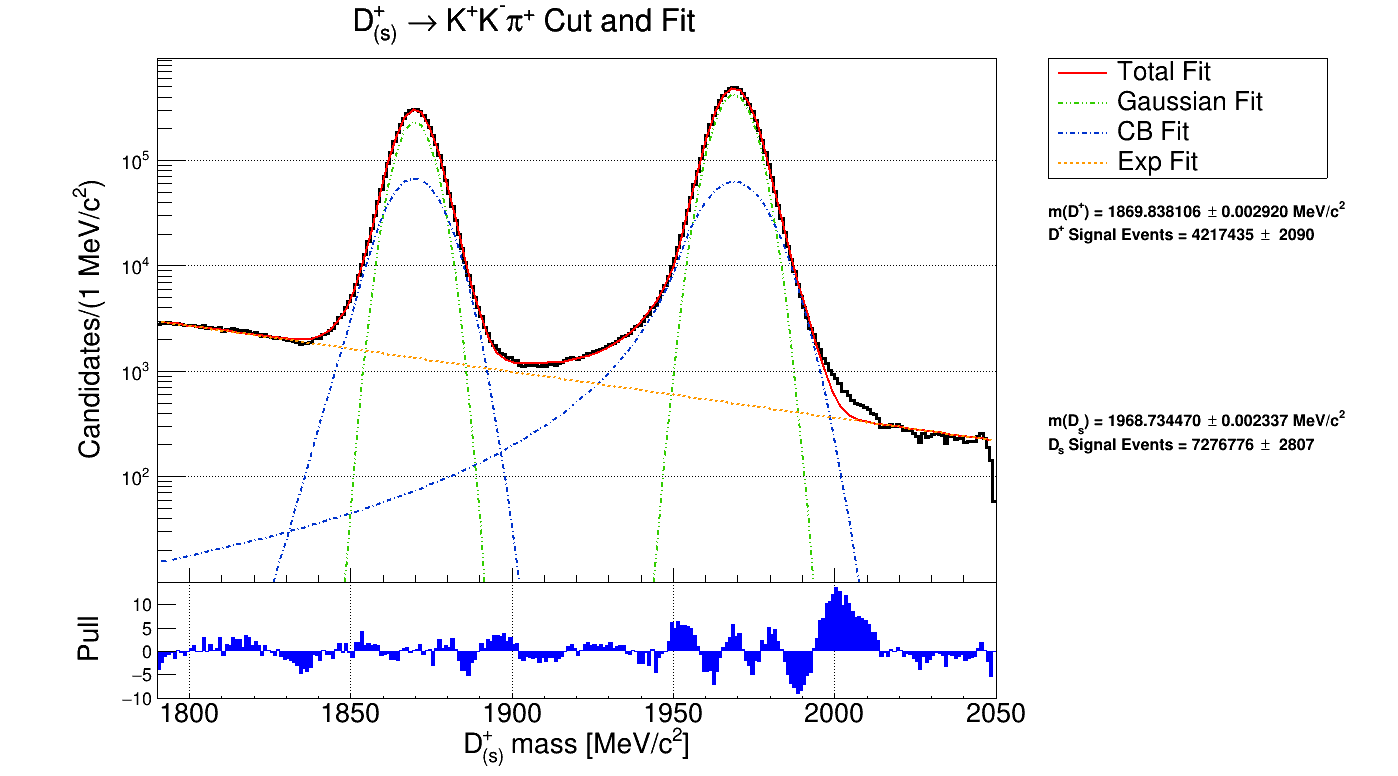
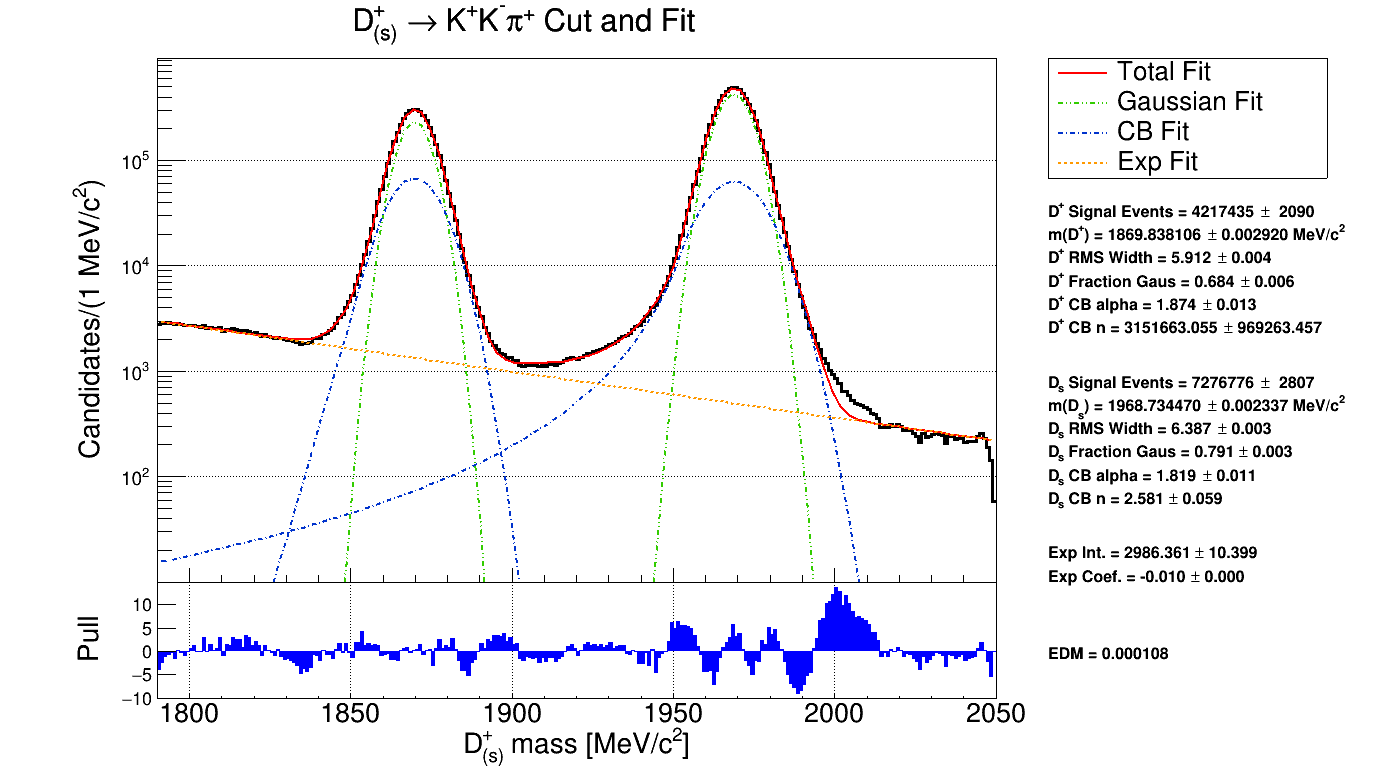
spectrum plot working okay, need to figure out edm collection

diff --git a/combined_cut_fit.C b/combined_cut_fit.C
@@ -232,7 +232,7 @@ cout << "exp coef: " << expCoefGuess << endl;
 	dpdspFit->SetParLimits(4,0.000001,0.99999);
 	dpdspFit->SetParameter(5, 1.5);//crystal ball alpha
 	dpdspFit->SetParameter(6,2.5);//crystal ball n
-	//dpdspFit->SetParLimits(6,1.00001,6.);
+	//dpdspFit->SetParLimits(6,1.00001,10);
 //dsp mass peak
 	dpdspFit->SetParameter(7,nSignal2Guess);//nSignal
 	//dpdspFit->SetParLimits(7,7000000,8000000);
@@ -286,6 +286,8 @@ pad1->cd();
 	pad1->SetGridy();
 
 dpdspHist->Fit("dpdspFit","R");
+//TF1 *fit = dpdspHist->GetFunction("dpdspFit");
+//TFitResultPtr fitResultPointer = dpdspHist->Fit("dpdspFit","R");
 
 	//get the parameters back for isolated signal plotting
 	//signal 2
@@ -412,20 +414,20 @@ backgroundFit->Draw("same");
 			mu1Strpm.Form("%5.6f\n",dpdspFit->GetParError(1));
 		TString rmsWidth1Str;
 			TString rmsWidth1Strpm;
-			rmsWidth1Str.Form("%5.0f\n",rms1);
-			rmsWidth1Strpm.Form("%5.0f\n",dpdspFit->GetParError(2));
+			rmsWidth1Str.Form("%5.3f\n",rms1);
+			rmsWidth1Strpm.Form("%5.3f\n",dpdspFit->GetParError(2));
 		TString gaus_frac1Str;
 			TString gaus_frac1Strpm;
-			gaus_frac1Str.Form("%5.0f\n",f1);
-			gaus_frac1Strpm.Form("%5.0f\n",dpdspFit->GetParError(4));
+			gaus_frac1Str.Form("%5.3f\n",f1);
+			gaus_frac1Strpm.Form("%5.3f\n",dpdspFit->GetParError(4));
 		TString CBalpha1Str;
 			TString CBalpha1Strpm;
-			CBalpha1Str.Form("%5.0f\n",CB_alpha1);
-			CBalpha1Strpm.Form("%5.0f\n",dpdspFit->GetParError(5));
+			CBalpha1Str.Form("%5.3f\n",CB_alpha1);
+			CBalpha1Strpm.Form("%5.3f\n",dpdspFit->GetParError(5));
 		TString CBn1Str;
 			TString CBn1Strpm;
-			CBn1Str.Form("%5.0f\n",CB_n1);
-			CBn1Strpm.Form("%5.0f\n",dpdspFit->GetParError(6));
+			CBn1Str.Form("%5.3f\n",CB_n1);
+			CBn1Strpm.Form("%5.3f\n",dpdspFit->GetParError(6));
 
 		TString nSignal2Str;
 			TString nSignal2Strpm;
@@ -437,30 +439,34 @@ backgroundFit->Draw("same");
 			mu2Strpm.Form("%5.6f\n",dpdspFit->GetParError(8));
 		TString rmsWidth2Str;
 			TString rmsWidth2Strpm;
-			rmsWidth2Str.Form("%5.0f\n",rms2);
-			rmsWidth2Strpm.Form("%5.0f\n",dpdspFit->GetParError(9));
+			rmsWidth2Str.Form("%5.3f\n",rms2);
+			rmsWidth2Strpm.Form("%5.3f\n",dpdspFit->GetParError(9));
 		TString gaus_frac2Str;
 			TString gaus_frac2Strpm;
-			gaus_frac2Str.Form("%5.0f\n",f2);
-			gaus_frac2Strpm.Form("%5.0f\n",dpdspFit->GetParError(11));
+			gaus_frac2Str.Form("%5.3f\n",f2);
+			gaus_frac2Strpm.Form("%5.3f\n",dpdspFit->GetParError(11));
 		TString CBalpha2Str;
 			TString CBalpha2Strpm;
-			CBalpha2Str.Form("%5.0f\n",CB_alpha2);
-			CBalpha2Strpm.Form("%5.0f\n",dpdspFit->GetParError(12));
+			CBalpha2Str.Form("%5.3f\n",CB_alpha2);
+			CBalpha2Strpm.Form("%5.3f\n",dpdspFit->GetParError(12));
 		TString CBn2Str;
 			TString CBn2Strpm;
-			CBn2Str.Form("%5.0f\n",CB_n2);
-			CBn2Strpm.Form("%5.0f\n",dpdspFit->GetParError(13));
+			CBn2Str.Form("%5.3f\n",CB_n2);
+			CBn2Strpm.Form("%5.3f\n",dpdspFit->GetParError(13));
 
 
 		TString expIntStr;
 			TString expIntStrpm;
-			expIntStr.Form("%5.0f\n",exp_int);
-			expIntStrpm.Form("%5.0f\n",dpdspFit->GetParError(14));
+			expIntStr.Form("%5.3f\n",exp_int);
+			expIntStrpm.Form("%5.3f\n",dpdspFit->GetParError(14));
 		TString expCoefStr;
 			TString expCoefStrpm;
-			expCoefStr.Form("%5.0f\n",exp_coef)
-			expCoefStrpm.Form("%5.0f\n",dpdspFit->GetParError(15));
+			expCoefStr.Form("%5.3f\n",exp_coef);
+			expCoefStrpm.Form("%5.3f\n",dpdspFit->GetParError(15));
+
+		TString EDMStr;
+			Double_t EDMval = 0.000107573;
+			EDMStr.Form("%5.6f\n",EDMval);
 
 
 		auto lt = new TLatex();
@@ -479,8 +485,10 @@ backgroundFit->Draw("same");
 			lt->DrawLatexNDC(0, 0.38, "D_{s} CB alpha = "+CBalpha2Str+" #pm "+CBalpha2Strpm);
 			lt->DrawLatexNDC(0, 0.35, "D_{s} CB n = "+CBn2Str+" #pm "+CBn2Strpm);
 
-			lt->DrawLatexNDC(0, 0.38, "Exp Int. = "+expIntStr+" #pm "+expIntStrpm);
-			lt->DrawLatexNDC(0, 0.35, "Exp Coef. = "+expCoefStr+" #pm "+expCoefStrpm);
+			lt->DrawLatexNDC(0, 0.28, "Exp Int. = "+expIntStr+" #pm "+expIntStrpm);
+			lt->DrawLatexNDC(0, 0.25, "Exp Coef. = "+expCoefStr+" #pm "+expCoefStrpm);
+
+			lt->DrawLatexNDC(0, 0.15, "EDM = "+EDMStr);
 
 
 

diff --git a/mass_diff_fit.C b/mass_diff_fit.C
@@ -305,6 +305,7 @@ dpdspHist->Fit("massDiffFit","R");
 		backgroundFit->SetParameter(0,exp_int);
 		backgroundFit->SetParameter(1,exp_coef);
 
+
 dpdspHist->Draw();
 firstGaussianFit->Draw("same");
 firstCBFit->Draw("same");
